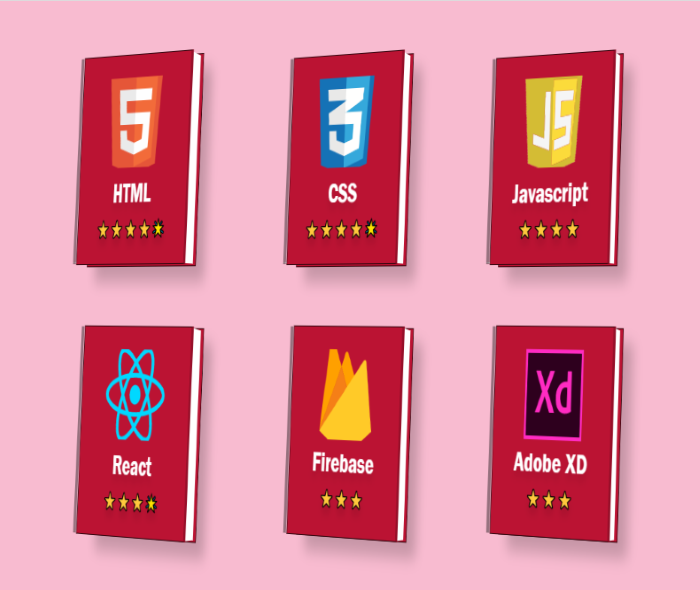
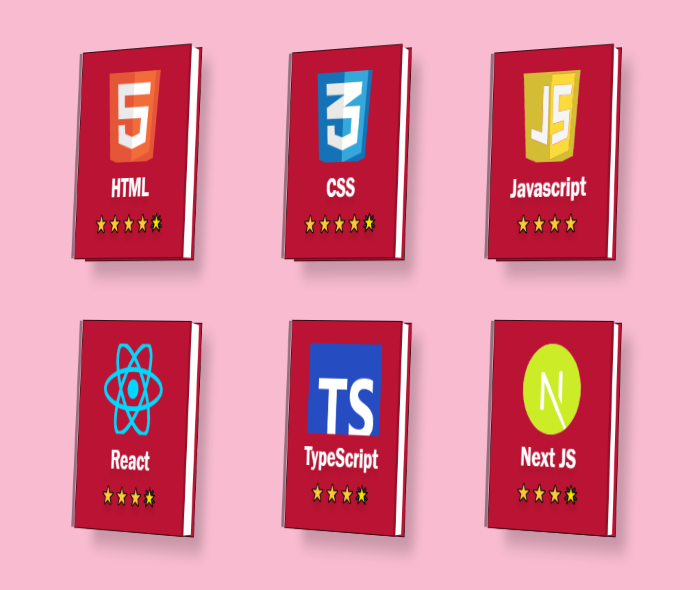
update projects section

diff --git a/index.html b/index.html
@@ -80,7 +80,7 @@
     <main>
       <section id="services">
         <div class="section__title">
-          <span>M</span><span>e</span><span>n</span><span>u</span>
+          <span>M</span><span>E</span><span>N</span><span>U</span>
         </div>
         <div class="services__container">
           <div class="service">
@@ -95,6 +95,7 @@
               />
             </figure>
           </div>
+
           <div class="service">
             <div class="service__title">
               <h2>Website Development</h2>
@@ -107,6 +108,7 @@
               />
             </figure>
           </div>
+
           <div class="service">
             <div class="service__title">
               <h2>Website Maintenance</h2>
@@ -119,6 +121,7 @@
               />
             </figure>
           </div>
+
           <div class="service">
             <div class="service__title">
               <h2>Website Deployment</h2>
@@ -197,14 +200,14 @@
             <div class="skill__front">
               <div class="skill__icon">
                 <img
-                  src="./public/img/firebase.svg"
-                  alt="Firebase Logo"
+                  src="./public/img/typescript-custom.svg"
+                  alt="TypeScript Logo"
                   loading="lazy"
-                  style="margin-left: 0.6rem"
+                  style="margin-left: 0.6rem; background-color: #fff"
                 />
               </div>
-              <h3 class="skill__name">Firebase</h3>
-              <p class="skill__rating">⭐⭐⭐</p>
+              <h3 class="skill__name">TypeScript</h3>
+              <p class="skill__rating">⭐⭐⭐🌟</p>
             </div>
           </div>
           <div class="skill">
@@ -212,14 +215,20 @@
             <div class="skill__front">
               <div class="skill__icon">
                 <img
-                  src="./public/img/adobe.svg"
-                  alt="Figma Logo"
+                  src="./public/img/next-js-custom.svg"
+                  alt="Next Logo"
                   loading="lazy"
-                  style="margin-left: 1.5rem; height: 6rem; width: 6rem"
+                  style="
+                    margin-left: 1.5rem;
+                    height: 6rem;
+                    width: 6rem;
+                    background-color: #fff;
+                    border-radius: 50%;
+                  "
                 />
               </div>
-              <h3 class="skill__name">Adobe XD</h3>
-              <p class="skill__rating">⭐⭐⭐</p>
+              <h3 class="skill__name">Next JS</h3>
+              <p class="skill__rating">⭐⭐⭐🌟</p>
             </div>
           </div>
         </div>
@@ -259,12 +268,12 @@
               </firgure>
               <div class="project__info">
                 <h2 class="project__info--name">PairTime</h2>
-                <!-- <a
-                  href="https://github.com/muneebali500/testimonial"
+                <a
+                  href="https://github.com/akashahmad/pairTime"
                   target="_blank"
                   class="project__info--code"
                   >Code</a
-                > -->
+                >
                 <a
                   href="https://pairtime.netlify.app/
                 "
@@ -367,38 +376,13 @@
                   >Code</a
                 >
                 <a
-                  href="https://muneebfolio.netlify.app/"
+                  href="https://muneebdev.netlify.app/"
                   class="project__info--link"
                   target="_blank"
                   >Webpage</a
                 >
               </div>
             </div>
-
-            <!-- <div class="project">
-              <firgure class="project__img">
-                <img
-                  src="./public/img/comingsoon.jpg"
-                  alt="landing page"
-                  loading="lazy"
-                />
-              </firgure>
-              <div class="project__info">
-                <h2 class="project__info--name">Coming Soon Page</h2>
-                <a
-                  href="https://github.com/muneebali500/coming-soon-htmlcssjs"
-                  class="project__info--code"
-                  target="_blank"
-                  >Code</a
-                >
-                <a
-                  href="https://sooncoming.netlify.app/"
-                  class="project__info--link"
-                  target="_blank"
-                  >Webpage</a
-                >
-              </div>
-            </div> -->
           </div>
           <!-- Project modal HTML/Sass ends here -->
           <div class="project">
@@ -536,12 +520,12 @@
               </firgure>
               <div class="project__info">
                 <h2 class="project__info--name">Breshna</h2>
-                <!-- <a
-                  href="https://github.com/muneebali500/bitly-clone-react-firebase"
+                <a
+                  href="https://github.com/Hamayun-001/breshna_client"
                   class="project__info--code"
                   target="_blank"
                   >Code</a
-                > -->
+                >
                 <a
                   href="https://breshna.io/"
                   class="project__info--link"
@@ -787,7 +771,7 @@
     <!-- MAIN SECTION ENDS HERE -->
 
     <footer class="footer">
-      <p class="copyright">All the © are reserved by me 🙂</p>
+      <p class="copyright">Designed and Developed by © Muneeb Ali 🙂</p>
     </footer>
   </body>
 </html>
